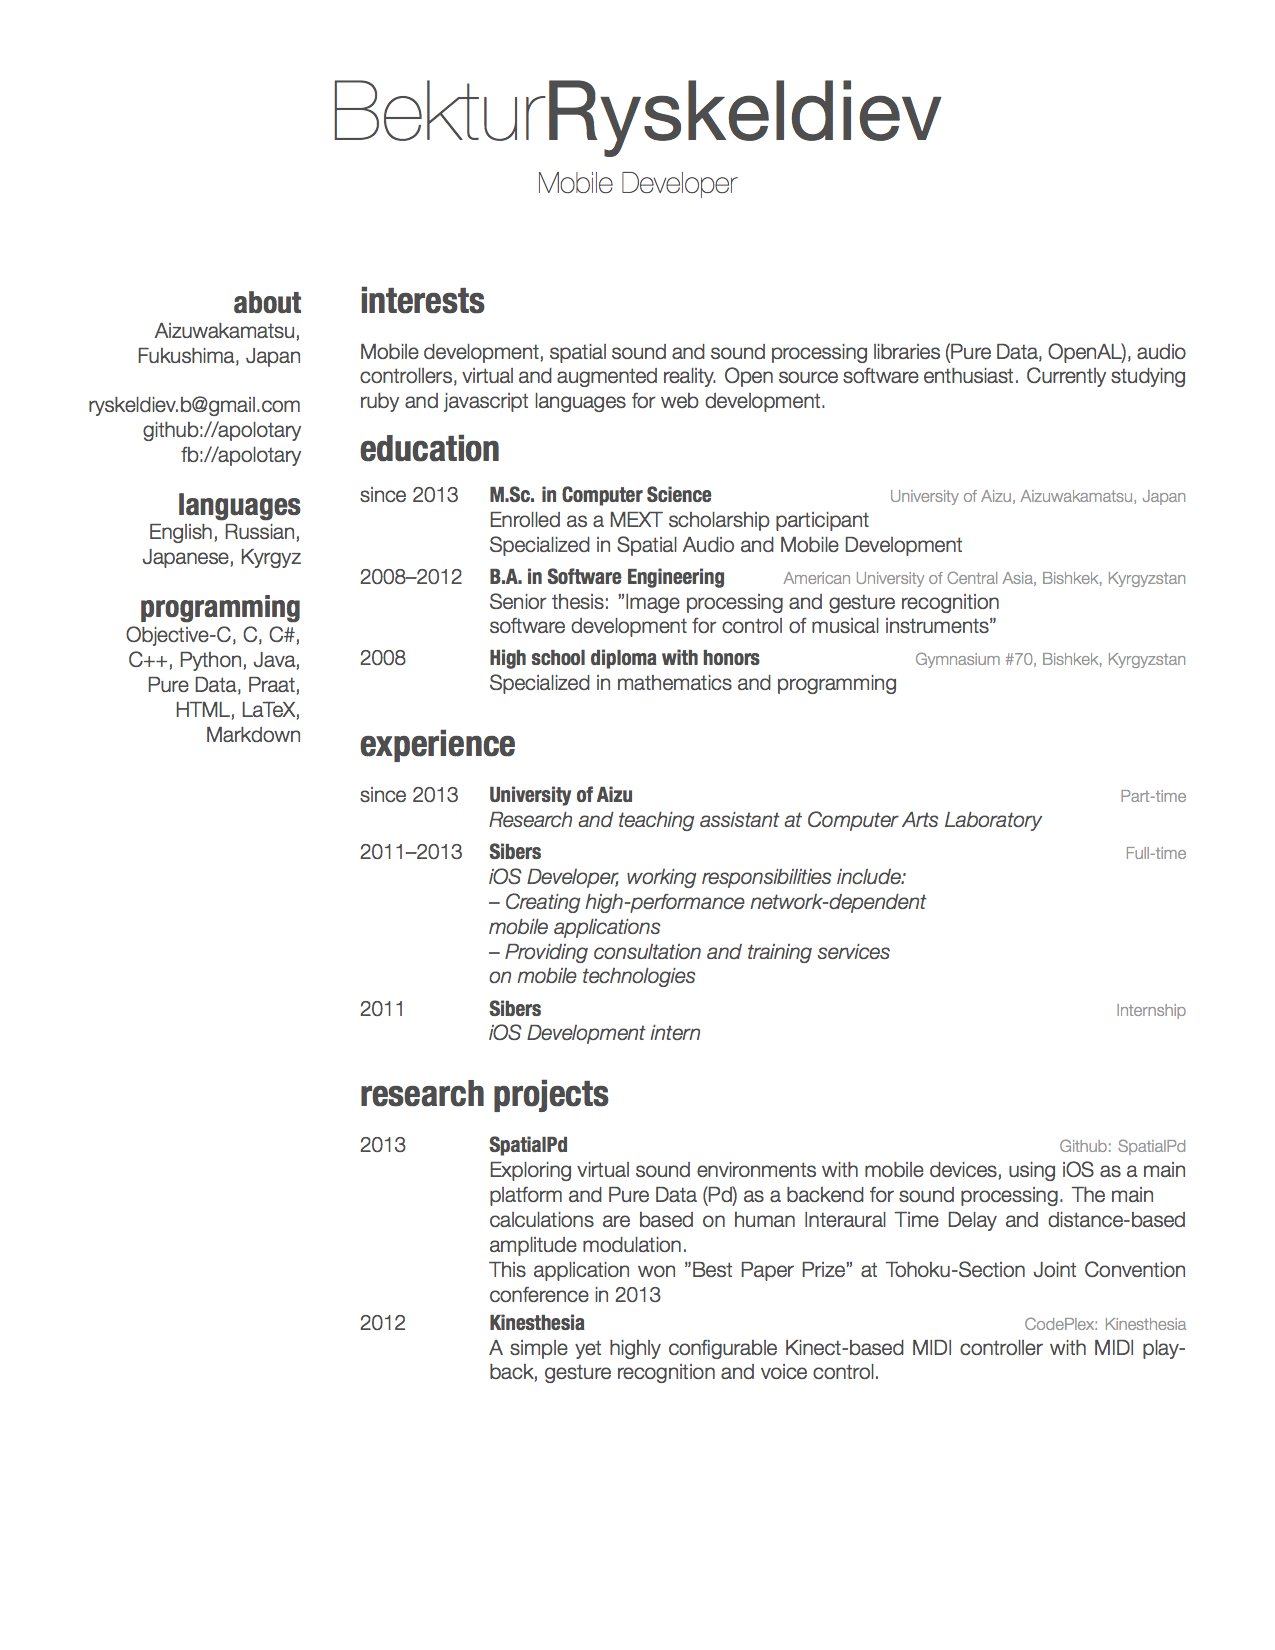
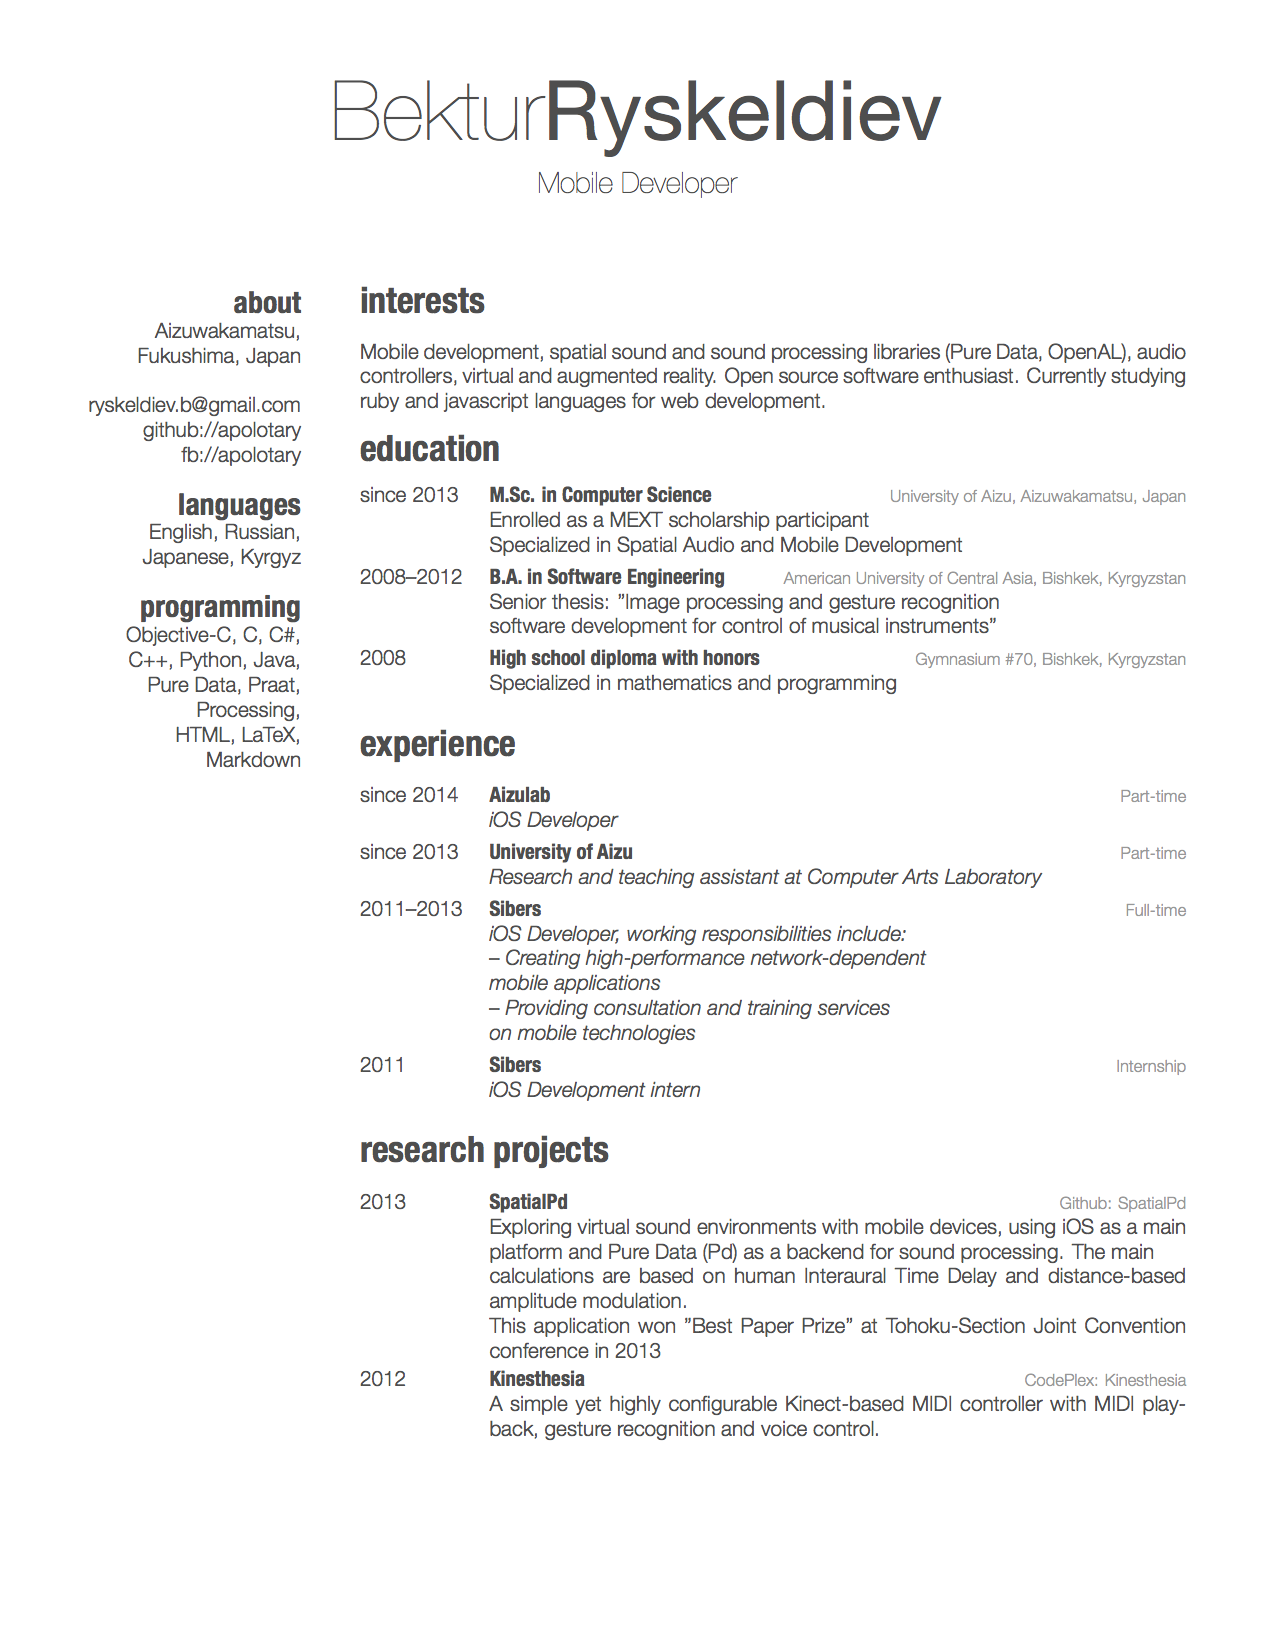
added new workplace

diff --git a/cv.tex b/cv.tex
@@ -19,9 +19,10 @@
 	English, Russian,
 	Japanese, Kyrgyz
   \section{programming}
-	Objective-C, C, C\#,
+	Objective-C, C,  C\#,
 	C++, Python, Java,
 	Pure Data, Praat,
+	Processing,
 	HTML, LaTeX,
 	Markdown
  \end{aside}
@@ -55,6 +56,11 @@ Mobile development, spatial sound and sound processing libraries (Pure Data, Ope
 \section{experience}
 
 \begin{entrylist}
+  \entry
+    {since 2014}
+    {\href{http://www.aizulab.com/}{Aizulab}}
+    {Part-time}
+    {\emph{iOS Developer}}
   \entry
     {since 2013}
     {\href{www.u-aizu.ac.jp/}{University of Aizu}}
